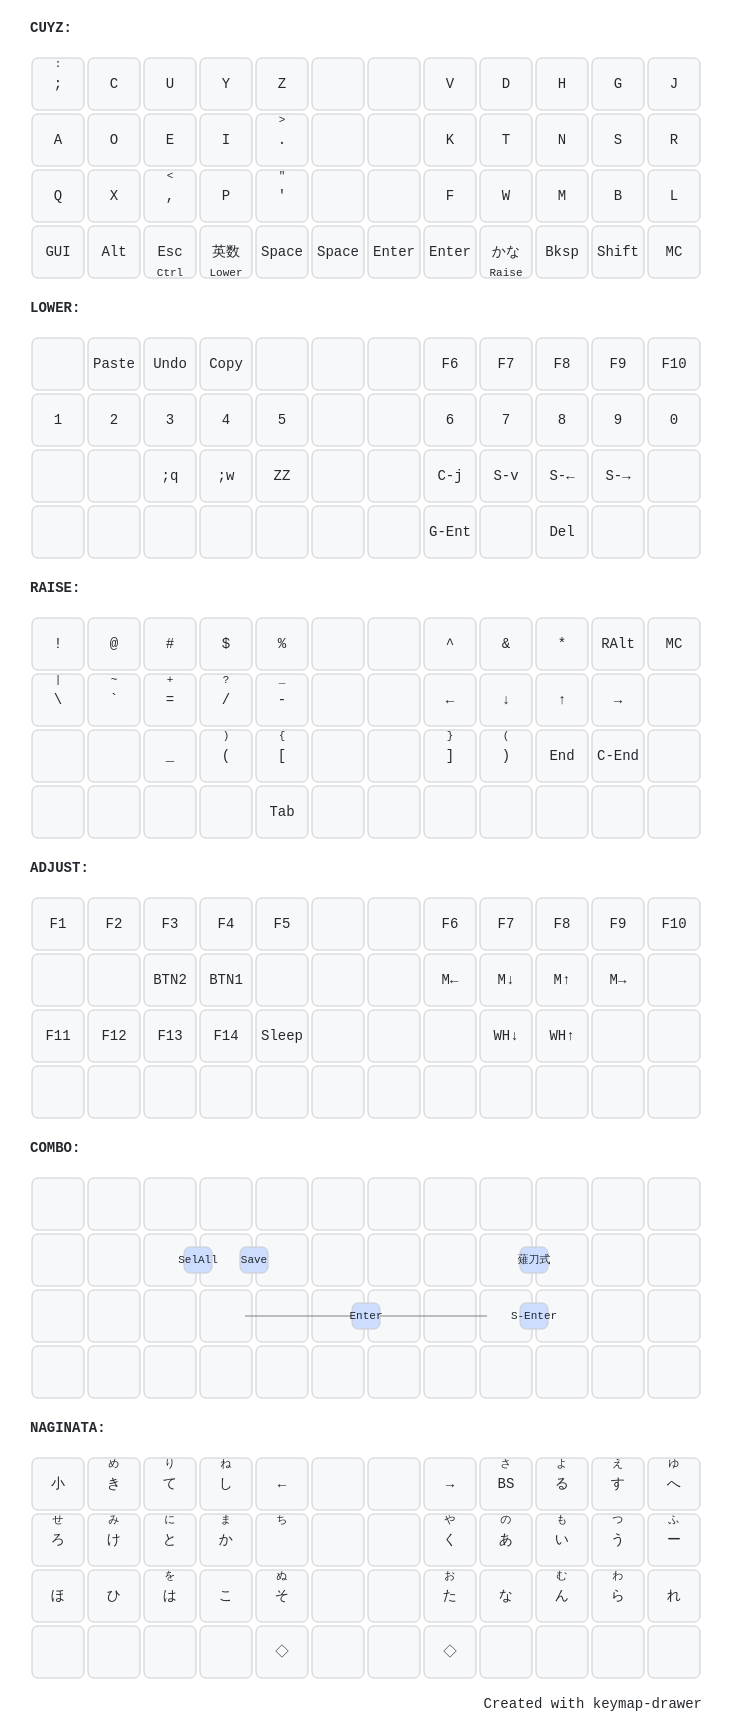
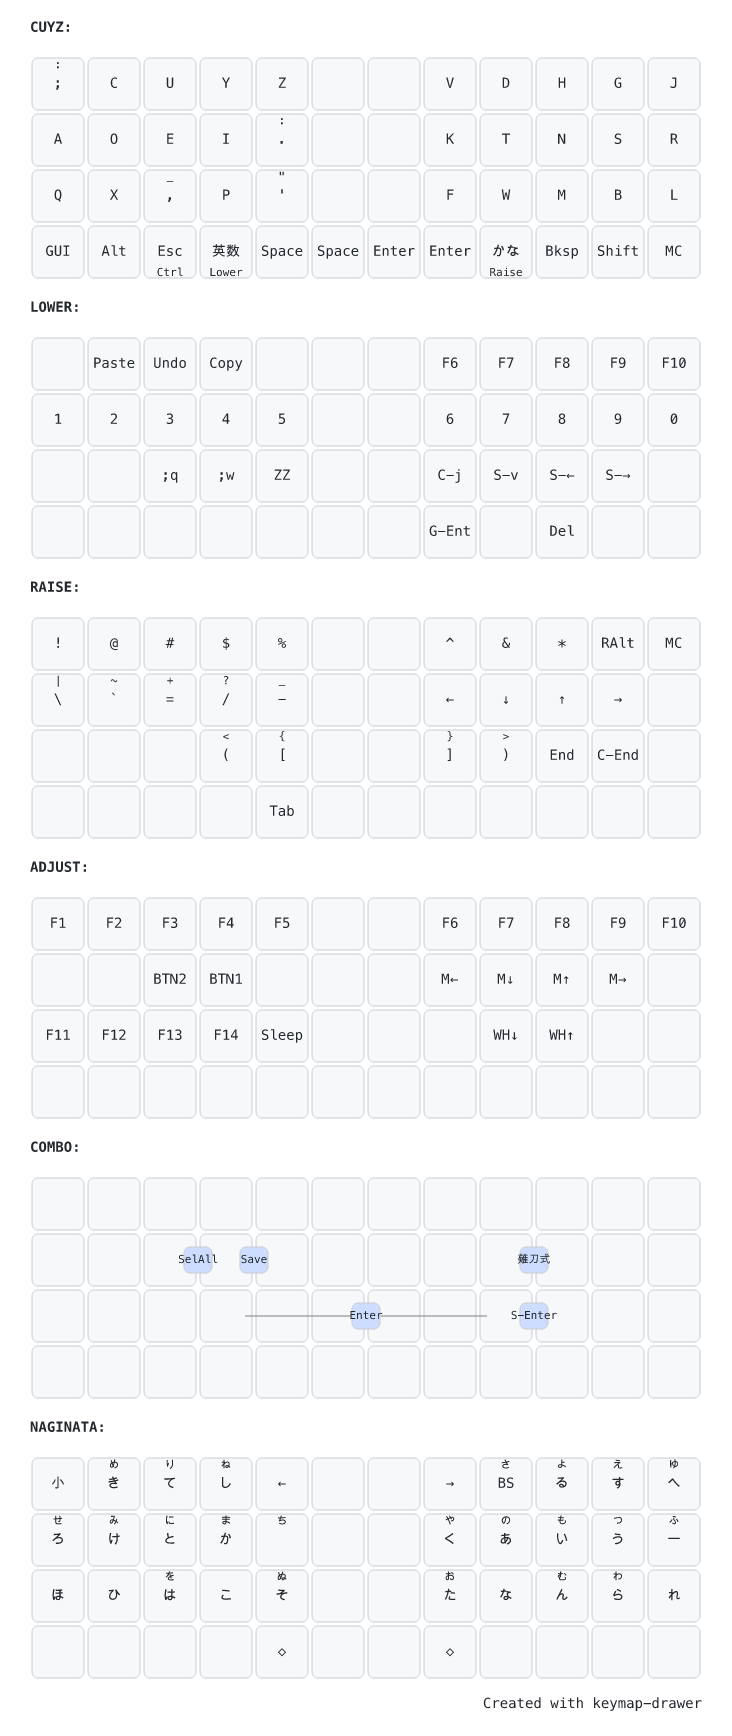
feat(roy): add dot and comma auto-shift, update keymap visuals Added auto-shift functionality for dot and comma keys, allowing them to produce colon and underscore when held. Updated keymap images and YAML configuration to reflect these changes. Modified key layout to improve usability and maintain 

diff --git a/keyboards/planck/keymaps/roy/keymap.c b/keyboards/planck/keymaps/roy/keymap.c
@@ -38,6 +38,10 @@ enum planck_keycodes {
     EQL,
     WH_D,
     WH_U,
+    DOT,
+    COMM,
+    LPRN,
+    RPRN,
 };
 
 #define SLP  LGUI(KC_L)
@@ -64,8 +68,8 @@ const uint16_t PROGMEM keymaps[][MATRIX_ROWS][MATRIX_COLS] = {
      */
     [_CUYZ] = LAYOUT_planck_grid(
         SCLN,    KC_C,    KC_U,    KC_Y,  KC_Z,    KC_NO,  KC_NO,  KC_V,   KC_D,  KC_H,    KC_G,    KC_J,
-        KC_A,    KC_O,    KC_E,    KC_I,  KC_DOT,  KC_NO,  KC_NO,  KC_K,   KC_T,  KC_N,    KC_S,    KC_R,
-        KC_Q,    KC_X,    KC_COMM, KC_P,  QUOT,    KC_NO,  KC_NO,  KC_F,   KC_W,  KC_M,    KC_B,    KC_L,
+        KC_A,    KC_O,    KC_E,    KC_I,  DOT,     KC_NO,  KC_NO,  KC_K,   KC_T,  KC_N,    KC_S,    KC_R,
+        KC_Q,    KC_X,    COMM,    KC_P,  QUOT,    KC_NO,  KC_NO,  KC_F,   KC_W,  KC_M,    KC_B,    KC_L,
         KC_LGUI, KC_LALT, CONTROL, LOWER, KC_SPC,  KC_SPC, KC_ENT, KC_ENT, RAISE, KC_BSPC, KC_RSFT, MC
     ),
 
@@ -101,7 +105,7 @@ const uint16_t PROGMEM keymaps[][MATRIX_ROWS][MATRIX_COLS] = {
     [_RAISE] = LAYOUT_planck_grid(
         JP_EXLM, JP_AT,   JP_HASH, JP_DLR,  JP_PERC,  _______, _______, JP_CIRC, JP_AMPR, JP_ASTR, KC_RALT, MC,
         BSLS,    GRV,     EQL,     JP_SLSH, MINS,     _______, _______, KC_LEFT, KC_DOWN, KC_UP,   KC_RGHT, _______,
-        _______, _______, JP_UNDS, JP_LPRN, JP_LBRC,  _______, _______, JP_RBRC, JP_RPRN, RTLF,    TPBM,    _______,
+        _______, _______, _______, LPRN,    JP_LBRC,  _______, _______, JP_RBRC, RPRN,    RTLF,    TPBM,    _______,
         _______, _______, _______, _______, KC_TAB,   _______, _______, _______, _______, _______, _______, _______
     ),
 
@@ -474,6 +478,50 @@ bool process_record_user(uint16_t keycode, keyrecord_t *record) {
                     tap_code16(JP_PLUS);
                 } else {
                     tap_code16(JP_EQL);
+                }
+            }
+            return false;
+        case DOT:
+            if (record->event.pressed) {
+                pressed_time = record->event.time;
+            } else {
+                if (TIMER_DIFF_16(record->event.time,pressed_time) > AUTO_SHIFT_TIMEOUT) {
+                    tap_code16(JP_COLN);
+                } else {
+                    tap_code16(KC_DOT);
+                }
+            }
+            return false;
+        case COMM:
+            if (record->event.pressed) {
+                pressed_time = record->event.time;
+            } else {
+                if (TIMER_DIFF_16(record->event.time,pressed_time) > AUTO_SHIFT_TIMEOUT) {
+                    tap_code16(JP_UNDS);
+                } else {
+                    tap_code16(KC_COMM);
+                }
+            }
+            return false;
+        case LPRN:
+            if (record->event.pressed) {
+                pressed_time = record->event.time;
+            } else {
+                if (TIMER_DIFF_16(record->event.time,pressed_time) > AUTO_SHIFT_TIMEOUT) {
+                    tap_code16(JP_LABK);
+                } else {
+                    tap_code16(JP_LPRN);
+                }
+            }
+            return false;
+        case RPRN:
+            if (record->event.pressed) {
+                pressed_time = record->event.time;
+            } else {
+                if (TIMER_DIFF_16(record->event.time,pressed_time) > AUTO_SHIFT_TIMEOUT) {
+                    tap_code16(JP_RABK);
+                } else {
+                    tap_code16(JP_RPRN);
                 }
             }
             return false;
